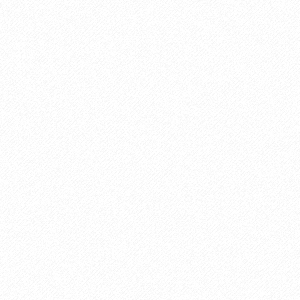
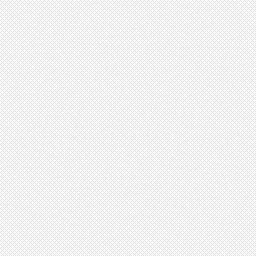
tambah bg dan news

Changed region(s): [[0.0, 0.0, 1.0, 1.0]]

diff --git a/index.html b/index.html
@@ -65,8 +65,14 @@
                 <!-- <div class="baris"> -->
                     <div class="zeen-4">
                         <article>
-                            <h2>Judul</h2>
-                            <p>Lorem ipsum dolor sit amet, consectetur adipisicing elit. Corporis, accusantium, omnis, iusto minima vel quaerat asperiores totam dolor cumque exercitationem quam perferendis maxime animi et vitae quibusdam suscipit error. Illo!</p>
+                            <h2>Berita</h2>
+                            <ul>
+                                <li><a href="#">Berita pertama</a></li>
+                                <li><a href="#">Berita Kedua</a></li>
+                                <li><a href="#">Berita Ketiga</a></li>
+                                <li><a href="#">Berita Keempat</a></li>
+                                <li><a href="#">Berita Kelima</a></li>
+                            </ul>
                         </article>
                     </div>
                     <div class="zeen-4">

diff --git a/public/css/style.css b/public/css/style.css
@@ -342,12 +342,17 @@ img {
 /*******************************************************************************/
 /*     @general
 /*******************************************************************************/
+body {
+  background: url('../img/bg.png?1383647139') top center;
+}
+
 a {
   color: #265fb6;
   text-decoration: none;
 }
 
 .wrap {
+  background: #fff;
   -webkit-box-shadow: 0 0 10px #444444;
   -moz-box-shadow: 0 0 10px #444444;
   box-shadow: 0 0 10px #444444;

diff --git a/src/sass/partials/_general.scss b/src/sass/partials/_general.scss
@@ -1,6 +1,9 @@
 /*******************************************************************************/
 /*     @general
 /*******************************************************************************/
+body{
+	background: image-url('bg.png') top center;
+}
 
 a{
 	color: $mainColor;
@@ -9,6 +12,7 @@ a{
 
 .wrap{
 	// border:1px solid #eee;
+	background:#fff;
 	@include box-shadow(0 0 10px #444);
 }
 
